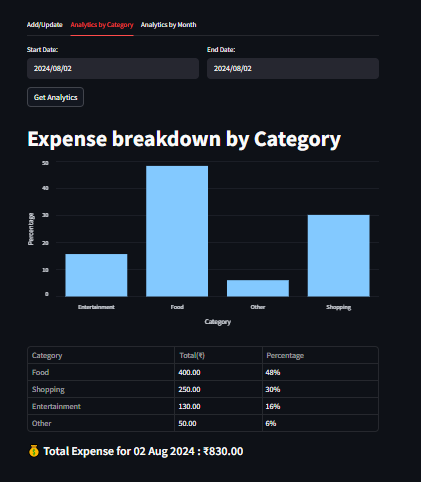
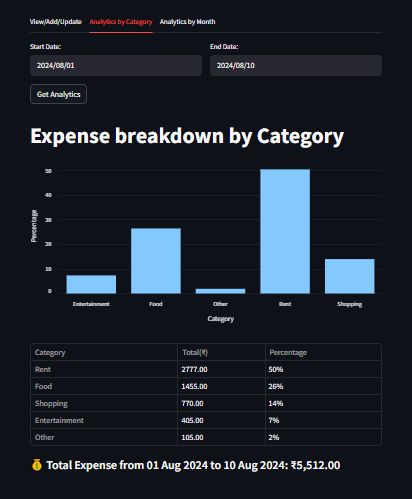
added database, images

diff --git a/frontend/app.py b/frontend/app.py
@@ -1,12 +1,12 @@
 import streamlit as st
-from add_update import add_update_tab
+from view_add_update import view_add_update_tab
 from analytics_by_category import analysis_by_category_tab
 from analytics_by_month import analysis_by_month_tab
 
-tab1, tab2, tab3 = st.tabs(["Add/Update","Analytics by Category", "Analytics by Month"])
+tab1, tab2, tab3 = st.tabs(["View/Add/Update","Analytics by Category", "Analytics by Month"])
 
 with tab1:
-    add_update_tab()
+    view_add_update_tab()
 
 with tab2:
     analysis_by_category_tab()

diff --git a/backend/server.py b/backend/server.py
@@ -25,7 +25,7 @@ def get_expenses(expense_date : date):
 
 
 @app.post("/expenses/{expense_date}")
-def add_or_update_expense(expense_date: date, expenses: List[Expense]):
+def view_add_or_update_expense(expense_date: date, expenses: List[Expense]):
     db_helper.delete_expenses_for_date(expense_date)
     for expense in expenses:
         db_helper.insert_expense(expense_date, expense.amount, expense.category, expense.notes)

diff --git a/tests/backend/test_db_helper.py b/tests/backend/test_db_helper.py
@@ -4,4 +4,7 @@ from backend  import db_helper
 def test_fetch_expenses_for_date():
     expenses = db_helper.fetch_expenses_for_date("2024-08-15")
     assert len(expenses) == 1
-    assert expenses[0]["id"] == 62
+
+def test_fetch_expense_summary():
+    expenses = db_helper.fetch_expense_summary("2024-08-15", "2024-08-29")
+    assert len(expenses) == 6

diff --git a/frontend/analytics_by_month.py b/frontend/analytics_by_month.py
@@ -36,7 +36,6 @@ def analysis_by_month_tab():
             df['Total(₹)'] = df['Total(₹)'].map('{:.2f}'.format)
             df['Percentage'] = df['Percentage'].map('{:.0f}'.format).astype(str) + '%'
 
-
             df.set_index('Month Number',inplace=True)
             df.index.name = None
             st.table(df)

diff --git a/frontend/view_add_update.py b/frontend/view_add_update.py
@@ -7,7 +7,7 @@ st.title("Expense Management System")
 
 API_URL =   "http://127.0.0.1:8000"
 
-def add_update_tab():
+def view_add_update_tab():
     # --- 1. Select Date ---
     selected_date = st.date_input("Enter Date:", datetime(2024, 8, 2), label_visibility='collapsed')
 

diff --git a/backend/db_helper.py b/backend/db_helper.py
@@ -79,6 +79,3 @@ def insert_expense(expense_date, amount, category, notes):
                        (expense_date, amount, category, notes))
 
 
-
-
-# print("DB Host:", os.getenv("DB_HOST"))

diff --git a/README.md b/README.md
@@ -14,6 +14,15 @@ This is an **Expense Management System** consisting of a **Streamlit frontend** 
 
 ---
 
+## 🧱 System Architecture
+
+The following diagram illustrates the high-level architecture of the Expense Management System.  
+It shows how the frontend, backend, and database components interact with each other.
+
+![System Architecture](assets/project_architecture.png)
+
+---
+
 ## 🚀 Features
 
 - 📅 Add and update expenses by date
@@ -23,10 +32,21 @@ This is an **Expense Management System** consisting of a **Streamlit frontend** 
 
 ---
 
-##  Screenshots
+### ⚙ API Documentation (Swagger UI)
 
-### 📝 Add or Update Expenses  
-![Add or Update Expenses](assets/add_update.png)
+The FastAPI backend comes with an interactive API documentation interface powered by **Swagger UI**.
+
+You can explore available endpoints like `GET` and `POST` requests for expenses and analytics.
+
+![API Documentation - Swagger UI](assets/OpenAPI.png)
+
+---
+
+## Project Interface & Visual Overview
+
+
+### 📝 View, Add, or Update Expenses
+![View 0r Add or Update Expenses](assets/view_add_update.png)
 
 ### 📊 Analytics by Category  
 ![Analytics by Category](assets/analytics_by_category.png)
@@ -58,6 +78,16 @@ This is an **Expense Management System** consisting of a **Streamlit frontend** 
    ```commandline
    streamlit run frontend/app.py
    ```
+---- 
+
+## 🗄 Database Setup
+
+You can find the MySQL database schema used in this project in the 📂 ['database/expense_db_creation.sql'](database/expense_db_creation.sql)
+
+> Note: This schema was provided by Codebasics as part of their Data Analytics Portfolio Project series.
+>
+----
+
 ## 🛠 Tech Stack
 
 - **Frontend**: [Streamlit](https://streamlit.io/)
@@ -69,12 +99,10 @@ This is an **Expense Management System** consisting of a **Streamlit frontend** 
 
 ---
 
-## 🎤 Project Presentation
+## 📌 Project Walkthrough
 
-Want to understand how the project works and what problems it solves?  
-Check out my video explanation here:
-
-[![Watch Presentation](https://img.shields.io/badge/🎬-Watch%20Presentation-blue)](your-video-link)
+Want to understand how the project works and the problems it solves?  
+Check out my [LinkedIn post](your-post-link) where I shared the complete breakdown and presentation slides.
 
 ---
 
